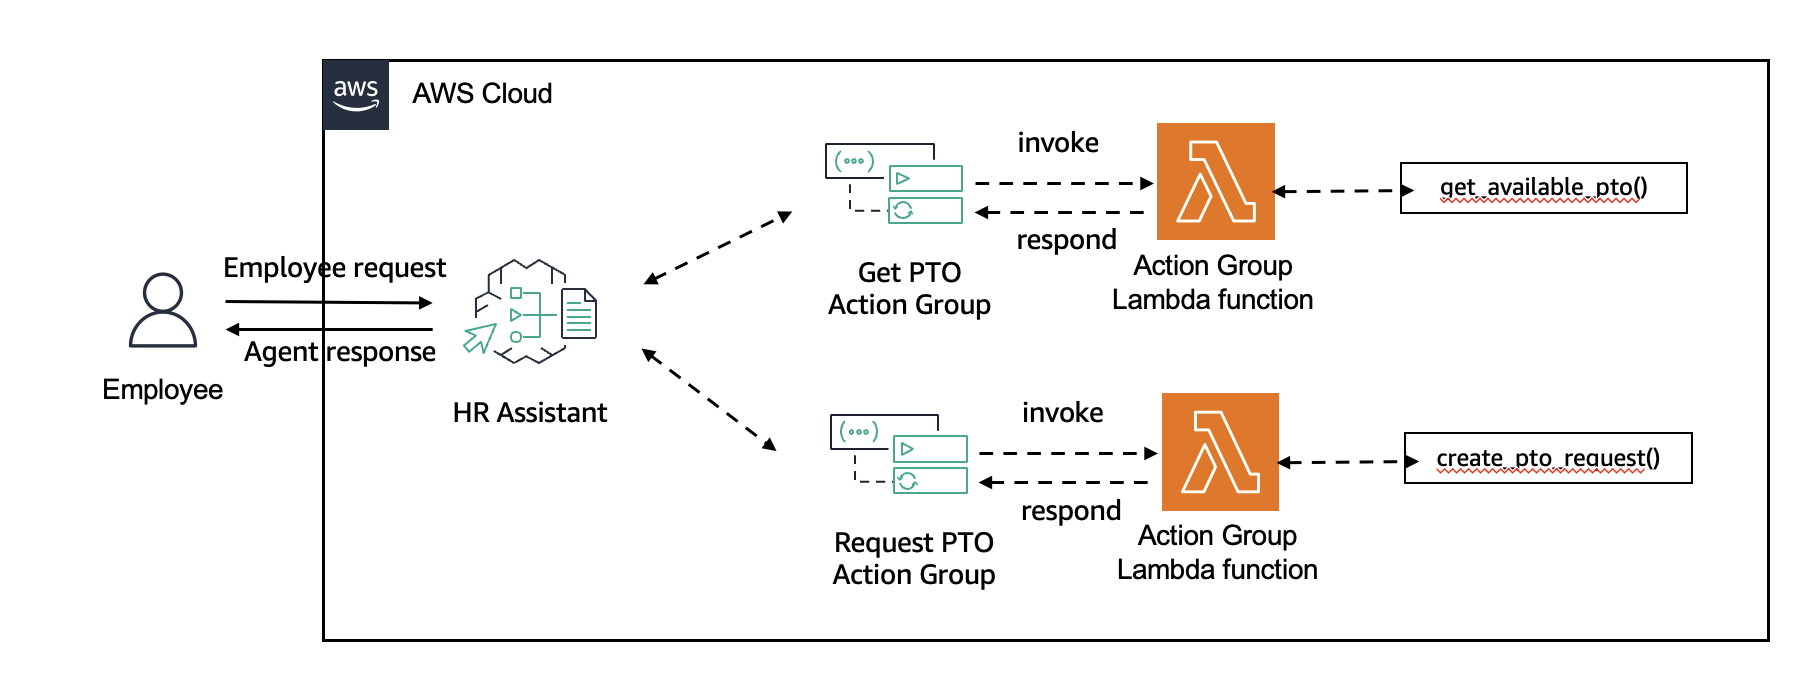
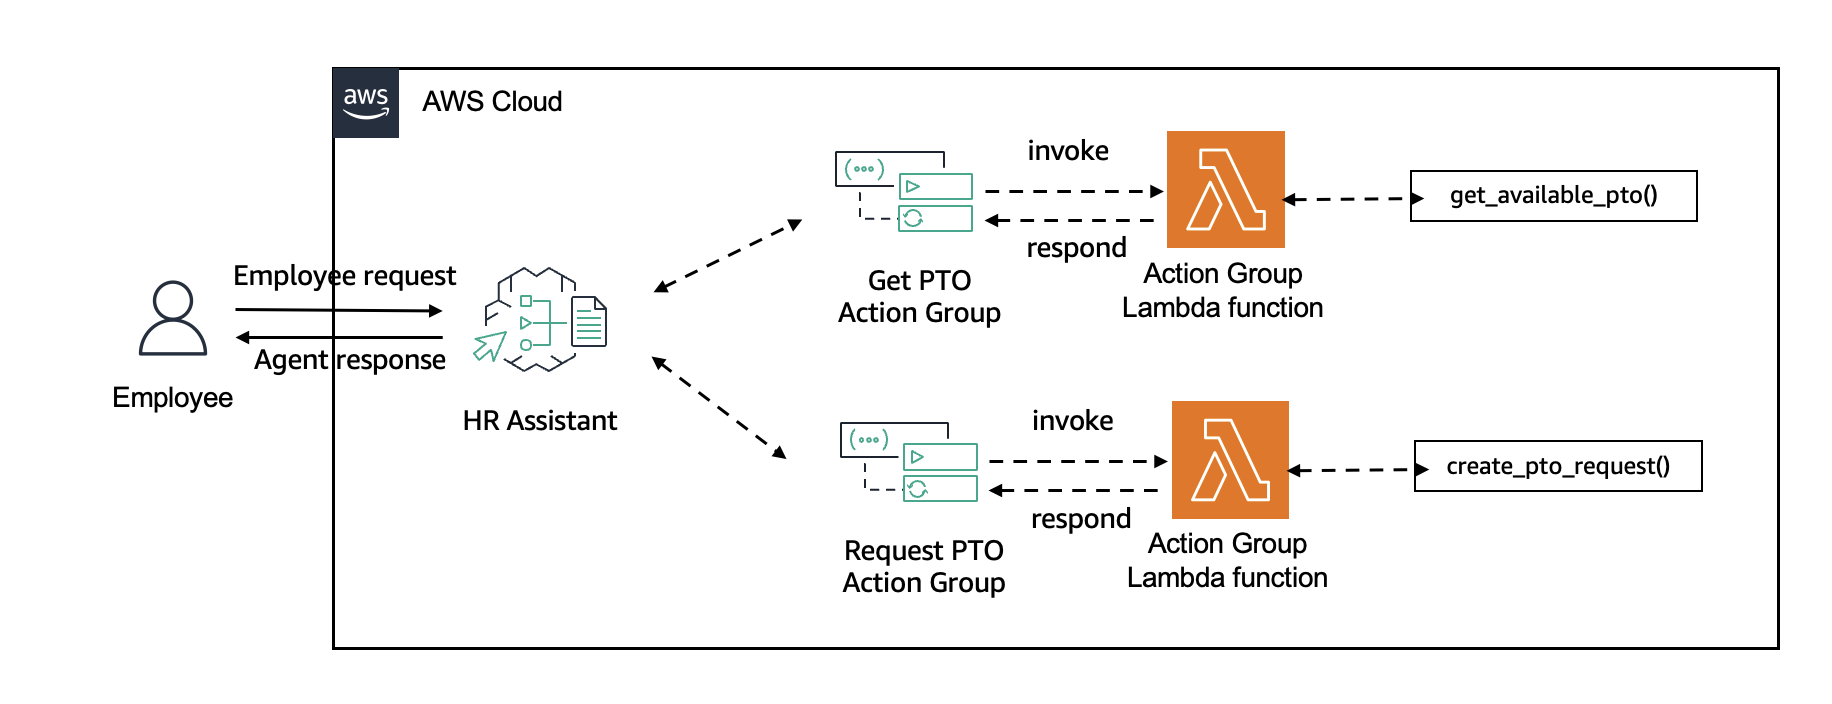
Implement another round of feedback with updated archictecture image. Updated the readmes to have copy/paste terminal commands. Lastly, clarified the cleanup process due to issue if you don't delete the additional alias/versions.

diff --git a/examples/agents/human_in_the_loop/cdk/README.md b/examples/agents/human_in_the_loop/cdk/README.md
@@ -10,46 +10,75 @@ Additionally, ensure you have:
 
 To verify your AWS CLI setup is working correctly, run:
 ```bash
-$ aws s3 ls
+aws s3 ls
 2025-01-15 10:30:25 my-bucket-name
 2025-02-20 15:45:12 another-bucket-name
 2025-03-10 09:15:33 deployment-artifacts
 ```
 If you see your S3 buckets listed, your AWS CLI is properly to execute commands on your account.
 
-#### Setting up Virtual Environment
-
-In order to use the cdk, you must first set up a virtual environment and install dependencies. First, navigate to the CDK folder in the repo:
-```
-$ cd <path-to-repo>
-bedrock-hr-assistant-roc $ cd ./cdk
-```
-
-Then create a virtual environment and install dependencies. This will install the aws-cdk in the virtual environment.
-```
-bedrock-hr-assistant-roc/cdk $ python3 -m venv .venv
-... # should see (.venv) before terminal prompt afterwards
-(.venv) bedrock-hr-assistant-roc/cdk $ pip3 install -r requirements.txt
-```
-
 ## Deployment
 
-It should take approximately one minute to deploy the entire stack. Make sure to set up your virtual environment first.
+### Setting up Virtual Environment
+
+In order to use the cdk, you must first set up a virtual environment and install dependencies. This will install the aws-cdk in the virtual environment.
+```
+git clone https://github.com/awslabs/amazon-bedrock-agent-samples
+
+cd amazon-bedrock-agent-samples/examples/agents/human_in_the_loop/cdk
+
+python3 -m venv .venv
+
+source .venv/bin/activate
+
+pip3 install -r requirements.txt
+```
 
 ### Confirm region is us-west-2
-Ensure infrastructure is being deployed to `us-west-2`.
+Ensure infrastructure is being deployed to `us-west-2` and bootstrap the `cdk`
 ```
-(.venv) bedrock-hr-assistant-roc/frontend $ env | grep AWS_DEFAULT
-AWS_DEFAULT_REGION=us-west-2
+export AWS_DEFAULT_REGION=us-west-2
+
+cdk bootstrap
 ```
 
 ### Deploy the infrastructure
+It should take 1-2 minutes to deploy the entire stack. Make sure to set up your virtual environment first.
 ```
-(.venv) bedrock-hr-assistant-roc/cdk $ cdk bootstrap
-(.venv) bedrock-hr-assistant-roc/cdk $ cdk synth 
-... # you may see some node EOL messages
-(.venv) bedrock-hr-assistant-roc/cdk $ cdk deploy 
-... # should see 5 resources pop up
+cdk synth 
+
+cdk deploy 
+```
+
+You should get prompted to deploy the changes.
+
+```
+IAM Statement Changes
+┌───┬─────────────────────────────┬────────┬─────────────────────────────┬─────────────────────────────┬──────────────────────────────┐
+│   │ Resource                    │ Effect │ Action                      │ Principal                   │ Condition                    │
+├───┼─────────────────────────────┼────────┼─────────────────────────────┼─────────────────────────────┼──────────────────────────────┤
+│ + │ ${AgentRole.Arn}            │ Allow  │ sts:AssumeRole              │ Service:bedrock.amazonaws.c │                              │
+│   │                             │        │                             │ om                          │                              │
+├───┼─────────────────────────────┼────────┼─────────────────────────────┼─────────────────────────────┼──────────────────────────────┤
+│ + │ ${BedrockAgentActionGroupEx │ Allow  │ lambda:InvokeFunction       │ Service:bedrock.amazonaws.c │ "ArnLike": {                 │
+│   │ ecutor}                     │        │                             │ om                          │   "AWS:SourceArn": "${CfnAge │
+│   │                             │        │                             │                             │ nt.AgentArn}"                │
+│   │                             │        │                             │                             │ }                            │
+├───┼─────────────────────────────┼────────┼─────────────────────────────┼─────────────────────────────┼──────────────────────────────┤
+│ + │ ${HRAssistantLambdaRole.Arn │ Allow  │ sts:AssumeRole              │ Service:lambda.amazonaws.co │                              │
+│   │ }                           │        │                             │ m                           │                              │
+├───┼─────────────────────────────┼────────┼─────────────────────────────┼─────────────────────────────┼──────────────────────────────┤
+│ + │ arn:${AWS::Partition}:bedro │ Allow  │ bedrock:InvokeModel         │ AWS:${AgentRole}            │                              │
+│   │ ck:${AWS::Region}::foundati │        │ lambda:InvokeFunction       │                             │                              │
+│   │ on-model/anthropic.claude-3 │        │                             │                             │                              │
+│   │ -5-haiku-20241022-v1:0      │        │                             │                             │                              │
+└───┴─────────────────────────────┴────────┴─────────────────────────────┴─────────────────────────────┴──────────────────────────────┘
+IAM Policy Changes
+┌───┬──────────────────────────┬───────────────────────────────┐
+│   │ Resource                 │ Managed Policy ARN            │
+├───┼──────────────────────────┼───────────────────────────────┤
+│ + │ ${HRAssistantLambdaRole} │ ${LambdaBasicExecutionPolicy} │
+└───┴──────────────────────────┴───────────────────────────────┘
 Do you wish to deploy these changes (y/n)? y
 ```
 
@@ -105,8 +134,21 @@ Do you wish to deploy these changes (y/n)? y
 ![Configure alias settings](../images/console-create-alias-modal.png)
 
 ## Clean Up
-To clean up the infrastructure, simply run the `cdk destroy` command.
+To clean up the infrastructure, first manually delete the two new versions and aliases you created for confirmation and return-of-control.
+
+In the agent console, go to versions and select delete. Type `delete` when prompted.
+![Delete versions](../images/console-delete-version.png)
+
+Right below the versions, remove the new aliases.
+![Delete aliases](../images/console-delete-alias.png)
+
+When you have just the original version and alias left, run the `cdk destroy` command.
+![!Original state](../images/console-original-state.png)
 ```
-(.venv) bedrock-hr-assistant-roc/cdk $ cdk destroy
+cdk destroy
+```
+
+When prompted, indicate yes and the stack should delete.
+```
 Are you sure you want to delete: BedrockAgentStack (y/n)? y
 ```

diff --git a/examples/agents/human_in_the_loop/frontend/README.md b/examples/agents/human_in_the_loop/frontend/README.md
@@ -19,29 +19,27 @@ Once the backend is deployed, you can proceed with setting up the frontend appli
 
 ### Create virtual environment
 ```
-$ cd <path-to-repo>
-bedrock-hr-assistant-roc $ cd ./frontend
-bedrock-hr-assistant-roc/frontend $ python3 -m venv .venv
-bedrock-hr-assistant-roc/frontend $ source .venv/bin/activate
-(.venv) bedrock-hr-assistant-roc/frontend $ pip3 install -r requirements.txt
+cd amazon-bedrock-agent-samples/examples/agents/human_in_the_loop/frontend
+
+python3 -m venv .venv
+
+source .venv/bin/activate
+
+pip3 install -r requirements.txt
 ```
 
 ### Create a local .env file
 ```
-(.venv) bedrock-hr-assistant-roc/frontend $ cp .env.example .env
+cp .env.example .env
 ```
 Replace the values of `AGENT_ID` and `AGENT_ALIAS_ID` to be the values of your deployed Agent in Bedrock.
 
-### Confirm region is us-west-2
-Ensure infrastructure is being deployed to `us-west-2`.
-```
-(.venv) bedrock-hr-assistant-roc/frontend $ env | grep AWS_DEFAULT
-AWS_DEFAULT_REGION=us-west-2
-```
 ### Run the app
+To run the app, first make sure your region is set to `us-west-2` and then you can set the port of your choice.
 ```
-# Use a different port if you want
-(.venv) bedrock-hr-assistant-roc/frontend $ streamlit run app.py --server.port=8080
+export AWS_DEFAULT_REGION=us-west-2
+
+streamlit run app.py --server.port=8080
 ```
 
 By default, the application provides a simple chat interface where users can interact with the HR assistant:

diff --git a/examples/agents/human_in_the_loop/README.md b/examples/agents/human_in_the_loop/README.md
@@ -1,4 +1,4 @@
-# Bedrock-HR-Assistant-ROC
+# Human-in-the-Loop HR Assistant
 
 ## Purpose
 This repo provides a backend for showcasing the human-in-the-loop capabilities in Amazon Bedrock, specifically focusing on Return of Control (ROC) functionality. This repo is for demonstrative purposes only, and the application code is not meant for production use.
@@ -37,6 +37,9 @@ The application consists of two main components that need to be deployed:
 
 ## UI Preview
 Once deployed, you'll be able to interact with an interface similar to the one shown below:
+
+> [!CAUTION]
+> Disclaimer: The current [backend API](./backend/lambda.py) does not do input validation and sanitizaton. After performing return-of-control, the agent does not do further validation on any data. E.g. if you change the request to 100 days, the API layer is responsible for handling the request accordingly and this demonstration does not do that.
 
 ![UI Preview](./images/ui-roc-step-one.png)
 
